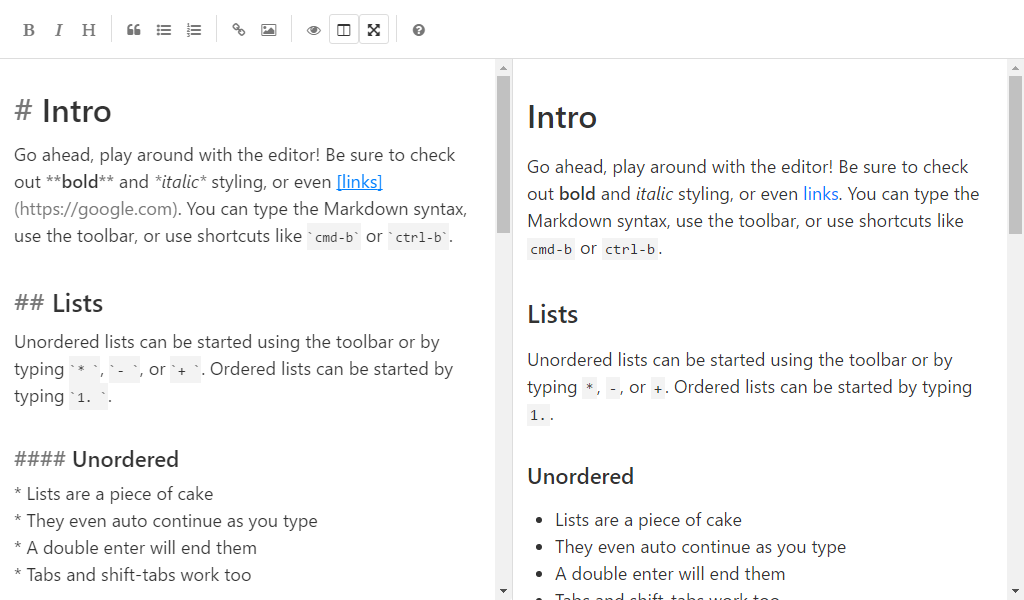
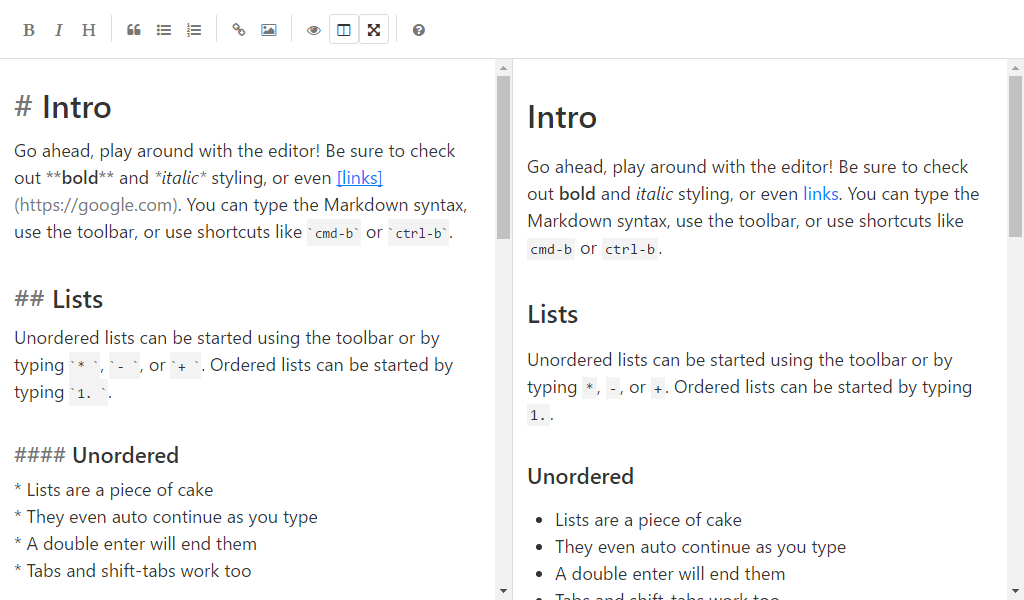
Fix lines padding

diff --git a/dist/simplemde-theme-base.min.css b/dist/simplemde-theme-base.min.css
@@ -1,1 +1,1 @@
-@charset "UTF-8";.CodeMirror-lines{padding:4px 0}.CodeMirror-gutter-filler,.CodeMirror-scrollbar-filler{background-color:#fff}.CodeMirror-gutters{border-right:1px solid #ddd;background-color:#f7f7f7;white-space:nowrap}.CodeMirror-linenumber{padding:0 3px 0 5px;min-width:20px;text-align:right;color:#999;white-space:nowrap}.CodeMirror-guttermarker{color:#000}.CodeMirror-guttermarker-subtle{color:#999}.CodeMirror-cursor{border-left:1px solid #000;border-right:none;width:0}.CodeMirror div.CodeMirror-secondarycursor{border-left:1px solid silver}.cm-fat-cursor .CodeMirror-cursor{width:auto;border:0!important;background:#7e7}.cm-fat-cursor div.CodeMirror-cursors{z-index:1}.cm-animate-fat-cursor{width:auto;border:0;-webkit-animation:blink 1.06s steps(1) infinite;-moz-animation:blink 1.06s steps(1) infinite;animation:blink 1.06s steps(1) infinite;background-color:#7e7}@-moz-keyframes blink{50%{background-color:transparent}}@-webkit-keyframes blink{50%{background-color:transparent}}@keyframes blink{50%{background-color:transparent}}.cm-tab{display:inline-block;text-decoration:inherit}.CodeMirror-rulers{position:absolute;left:0;right:0;top:-50px;bottom:-20px;overflow:hidden}.CodeMirror-ruler{border-left:1px solid #ccc;top:0;bottom:0;position:absolute}.CodeMirror,.CodeMirror-scroll{position:relative;min-height:300px}.cm-s-default .cm-header{color:#00f}.cm-s-default .cm-quote{color:#090}.cm-negative{color:#d44}.cm-positive{color:#292}.cm-header,.cm-strong{font-weight:700}.cm-em{font-style:italic}.cm-link{text-decoration:underline}.CodeMirror .CodeMirror-code .cm-strikethrough,.cm-strikethrough{text-decoration:line-through}.cm-s-default .cm-keyword{color:#708}.cm-s-default .cm-atom{color:#219}.cm-s-default .cm-number{color:#164}.cm-s-default .cm-def{color:#00f}.cm-s-default .cm-variable-2{color:#05a}.cm-s-default .cm-variable-3{color:#085}.cm-s-default .cm-comment{color:#a50}.cm-s-default .cm-string{color:#a11}.cm-s-default .cm-string-2{color:#f50}.cm-s-default .cm-meta,.cm-s-default .cm-qualifier{color:#555}.cm-s-default .cm-builtin{color:#30a}.cm-s-default .cm-bracket{color:#997}.cm-s-default .cm-tag{color:#170}.cm-s-default .cm-attribute{color:#00c}.cm-s-default .cm-hr{color:#999}.cm-s-default .cm-link{color:#00c}.cm-invalidchar,.cm-s-default .cm-error{color:red}.CodeMirror-composing{border-bottom:2px solid}div.CodeMirror span.CodeMirror-matchingbracket{color:#0f0}div.CodeMirror span.CodeMirror-nonmatchingbracket{color:#f22}.CodeMirror-matchingtag{background:rgba(255,150,0,.3)}.CodeMirror-activeline-background{background:#e8f2ff}.CodeMirror{position:relative;overflow:hidden;background:#fff}.CodeMirror-scroll{overflow:scroll!important;height:100%;outline:0;position:relative}.CodeMirror-sizer{position:relative;border-right:30px solid transparent}.CodeMirror-gutter-filler,.CodeMirror-hscrollbar,.CodeMirror-scrollbar-filler,.CodeMirror-vscrollbar{position:absolute;z-index:6;display:none}.CodeMirror-vscrollbar{right:0;top:0;overflow-x:hidden;overflow-y:scroll}.CodeMirror-hscrollbar{bottom:0;left:0;overflow-y:hidden;overflow-x:scroll}.CodeMirror-scrollbar-filler{right:0;bottom:0}.CodeMirror-gutter-filler{left:0;bottom:0}.CodeMirror-gutters{position:absolute;left:0;top:0;min-height:100%;z-index:3}.CodeMirror-gutter{white-space:normal;height:100%;display:inline-block;vertical-align:top;margin-bottom:-30px}.CodeMirror-gutter-wrapper{position:absolute;z-index:4;background:0 0!important;border:none!important;-webkit-user-select:none;-moz-user-select:none;user-select:none}.CodeMirror-gutter-background{position:absolute;top:0;bottom:0;z-index:4}.CodeMirror-gutter-elt{position:absolute;cursor:default;z-index:4}.CodeMirror-lines{cursor:text;min-height:1px}.CodeMirror pre{-moz-border-radius:0;-webkit-border-radius:0;border-radius:0;border-width:0;background:0 0;font-family:inherit;font-size:inherit;margin:0;white-space:pre;word-wrap:normal;line-height:inherit;color:inherit;z-index:2;position:relative;overflow:visible;-webkit-tap-highlight-color:transparent;-webkit-font-variant-ligatures:contextual;font-variant-ligatures:contextual}.CodeMirror-wrap pre{word-wrap:break-word;white-space:pre-wrap;word-break:normal}.CodeMirror-linebackground{position:absolute;left:0;right:0;top:0;bottom:0;z-index:0}.CodeMirror-linewidget{position:relative;z-index:2;overflow:auto}.CodeMirror-code{outline:0}.CodeMirror-gutter,.CodeMirror-gutters,.CodeMirror-linenumber,.CodeMirror-scroll,.CodeMirror-sizer{-moz-box-sizing:content-box;box-sizing:content-box}.CodeMirror-measure{position:absolute;width:100%;height:0;overflow:hidden;visibility:hidden}.CodeMirror-cursor{position:absolute;pointer-events:none}.CodeMirror-measure pre{position:static}div.CodeMirror-cursors{visibility:hidden;position:relative;z-index:3}.CodeMirror-focused div.CodeMirror-cursors,div.CodeMirror-dragcursors{visibility:visible}.CodeMirror-selected{background:#d9d9d9}.CodeMirror-focused .CodeMirror-selected{background:#d7d4f0}.CodeMirror-crosshair{cursor:crosshair}.CodeMirror-line::selection,.CodeMirror-line>span::selection,.CodeMirror-line>span>span::selection{background:#d7d4f0}.CodeMirror-line::-moz-selection,.CodeMirror-line>span::-moz-selection,.CodeMirror-line>span>span::-moz-selection{background:#d7d4f0}.cm-searching{background:#ffa;background:rgba(255,255,0,.4)}.cm-force-border{padding-right:.1px}@media print{.CodeMirror div.CodeMirror-cursors{visibility:hidden}}.cm-tab-wrap-hack:after{content:''}span.CodeMirror-selectedtext{background:0 0}.CodeMirror{height:auto;border:1px solid #ddd;border-bottom-left-radius:3px;border-bottom-right-radius:3px;padding:14px;font-family:inherit;font-size:18px;line-height:1.5;color:#333;z-index:1;background-color:#fff}.CodeMirror-scroll{margin-bottom:-32px;margin-right:-32px;padding-bottom:32px}.CodeMirror-fullscreen{background:#fff;position:fixed!important;top:58px;left:0;right:0;bottom:0;height:auto;z-index:9;border:0;border-top:1px solid #ddd}.CodeMirror-sided{width:50%!important}.CodeMirror .CodeMirror-placeholder{color:#777}.CodeMirror-cursor{border-left-color:#333}.CodeMirror pre{padding:0}.CodeMirror-focused .CodeMirror-selected,.CodeMirror-line::-moz-selection,.CodeMirror-line>span::-moz-selection,.CodeMirror-line>span>span::-moz-selection,.CodeMirror-selected{background-color:rgba(0,0,0,.1)}.CodeMirror-focused .CodeMirror-selected,.CodeMirror-line::selection,.CodeMirror-line>span::selection,.CodeMirror-line>span>span::selection,.CodeMirror-selected{background-color:rgba(0,0,0,.1)}.CodeMirror .CodeMirror-code .cm-attribute,.CodeMirror .CodeMirror-code .cm-tag{color:#40bf40}.CodeMirror .CodeMirror-code .cm-string{color:#777}.CodeMirror .CodeMirror-code .cm-link{color:#0080ff}.CodeMirror .CodeMirror-code .cm-formatting-code,.CodeMirror .CodeMirror-code .cm-formatting-code-block,.CodeMirror .CodeMirror-code .cm-formatting-em,.CodeMirror .CodeMirror-code .cm-formatting-header,.CodeMirror .CodeMirror-code .cm-formatting-strikethrough,.CodeMirror .CodeMirror-code .cm-formatting-strong,.CodeMirror .CodeMirror-code .cm-hr,.CodeMirror .CodeMirror-code .cm-quote,.CodeMirror .CodeMirror-code .cm-url{color:#777}.CodeMirror .CodeMirror-code .cm-header-1,.CodeMirror .CodeMirror-code .cm-header-2,.CodeMirror .CodeMirror-code .cm-header-3,.CodeMirror .CodeMirror-code .cm-header-4,.CodeMirror .CodeMirror-code .cm-header-5,.CodeMirror .CodeMirror-code .cm-header-6{line-height:2}.CodeMirror .CodeMirror-code .cm-header-1{font-size:32px}.CodeMirror .CodeMirror-code .cm-header-2{font-size:26px}.CodeMirror .CodeMirror-code .cm-header-3{font-size:24px}.CodeMirror .CodeMirror-code .cm-header-4{font-size:22px}.CodeMirror .CodeMirror-code .cm-header-5{font-size:20px}.CodeMirror .CodeMirror-code .cm-header-6{font-size:18px}.CodeMirror .CodeMirror-code .cm-header,.CodeMirror .CodeMirror-code .cm-strong{font-weight:600}.CodeMirror .CodeMirror-code .cm-comment{font-family:Menlo,Monaco,Consolas,"Liberation Mono","Courier New",monospace;background:rgba(0,0,0,.05);font-size:14px;padding:6px 0 4px}.CodeMirror .CodeMirror-code span.CodeMirror-selectedtext.cm-comment{background:rgba(0,0,0,.05)}.editor-preview{position:absolute;width:100%;height:100%;top:0;left:0;z-index:2}.editor-preview-side{position:fixed;bottom:0;width:50%;top:58px;right:0;z-index:9;border:0;border-top:1px solid #ddd;border-left:1px solid #ddd}.editor-preview,.editor-preview-side{padding:0 14px 14px;color:#333;font-family:inherit;font-size:18px;line-height:1.5;background:#fff;overflow:auto;display:none;box-sizing:border-box}.editor-preview pre,.editor-preview-side pre{overflow:auto;-webkit-overflow-scrolling:touch;background-color:rgba(0,0,0,.05);font-family:Menlo,Monaco,Consolas,"Liberation Mono","Courier New",monospace;font-size:14px;line-height:1.2;padding:14px;margin-top:14px}.editor-preview pre code,.editor-preview-side pre code{background-color:transparent;font-size:14px;padding:0}.editor-preview-active,.editor-preview-active-side{display:block}.editor-preview table,.editor-preview-side table{background-color:#fff;border:0;border-collapse:collapse;border-spacing:0;width:100%}.editor-preview table caption,.editor-preview-side table caption{caption-side:bottom;color:#777;padding:7px;text-align:left}.editor-preview table td,.editor-preview table th,.editor-preview-side table td,.editor-preview-side table th{border:0;border-bottom:1px solid #ddd;padding:7px;text-align:left}.editor-preview table th,.editor-preview-side table th{background-color:rgba(0,0,0,.05);font-weight:600}.editor-preview audio:not([controls]),.editor-preview-side audio:not([controls]){display:none;height:0}.editor-preview img,.editor-preview-side img{max-width:100%;vertical-align:middle}.editor-preview audio,.editor-preview video,.editor-preview-side audio,.editor-preview-side video{width:100%}.editor-toolbar{position:relative;-webkit-user-select:none;-moz-user-select:none;-ms-user-select:none;user-select:none;padding:0 14px;border:1px solid #ddd;border-bottom:0;border-top-left-radius:3px;border-top-right-radius:3px;font-size:18px;background-color:#fff}.editor-toolbar:after,.editor-toolbar:before{display:block;content:' ';height:1px}.editor-toolbar:before{margin-bottom:7px}.editor-toolbar:after{margin-top:7px}.editor-toolbar a{display:inline-block;text-align:center;text-decoration:none!important;color:#777!important;width:30px;height:30px;margin:0;border:1px solid transparent;border-radius:3px;cursor:pointer;font-size:80%}.editor-toolbar a.active,.editor-toolbar a:hover{color:#333!important;border-color:#ddd}.editor-toolbar a:before{line-height:30px}.editor-toolbar a.fa-header-x:after{font-family:inherit;font-size:80%;line-height:0;position:relative;vertical-align:baseline;bottom:-.25em}.editor-toolbar a.fa-header-1:after{content:"1"}.editor-toolbar a.fa-header-2:after{content:"2"}.editor-toolbar a.fa-header-3:after{content:"3"}.editor-toolbar a.fa-header-bigger:after{content:"▲"}.editor-toolbar a.fa-header-smaller:after{content:"▼"}.editor-toolbar i.separator{display:inline-block;width:0;border-right:1px solid #ddd;color:transparent;text-indent:-10px;margin:0 7px}.editor-toolbar:hover a{color:#333!important}.editor-toolbar.fullscreen{width:100%;height:58px;overflow-x:auto;overflow-y:hidden;white-space:nowrap;padding-top:14px;padding-bottom:14px;box-sizing:border-box;background:#fff;border:0;position:fixed;top:0;left:0;z-index:9}.editor-toolbar.fullscreen::after,.editor-toolbar.fullscreen::before{width:20px;height:58px;position:fixed;top:0;left:0;margin:0;padding:0}@media only screen and (max-width:700px){.editor-toolbar a.no-mobile{display:none}}.editor-toolbar.disabled-for-preview a:not(.no-disable){pointer-events:none;background:#fff;border-color:transparent;text-shadow:inherit}.editor-statusbar{padding:7px 14px;font-family:inherit;font-size:80%;color:#777;text-align:right}.editor-statusbar span{display:inline-block;margin-left:1em}.editor-statusbar .lines:before{content:'lines: '}.editor-statusbar .words:before{content:'words: '}.editor-statusbar .characters:before{content:'characters: '}
+@charset "UTF-8";.CodeMirror-gutter-filler,.CodeMirror-scrollbar-filler{background-color:#fff}.CodeMirror-gutters{border-right:1px solid #ddd;background-color:#f7f7f7;white-space:nowrap}.CodeMirror-linenumber{padding:0 3px 0 5px;min-width:20px;text-align:right;color:#999;white-space:nowrap}.CodeMirror-guttermarker{color:#000}.CodeMirror-guttermarker-subtle{color:#999}.CodeMirror-cursor{border-left:1px solid #000;border-right:none;width:0}.CodeMirror div.CodeMirror-secondarycursor{border-left:1px solid silver}.cm-fat-cursor .CodeMirror-cursor{width:auto;border:0!important;background:#7e7}.cm-fat-cursor div.CodeMirror-cursors{z-index:1}.cm-animate-fat-cursor{width:auto;border:0;-webkit-animation:blink 1.06s steps(1) infinite;-moz-animation:blink 1.06s steps(1) infinite;animation:blink 1.06s steps(1) infinite;background-color:#7e7}@-moz-keyframes blink{50%{background-color:transparent}}@-webkit-keyframes blink{50%{background-color:transparent}}@keyframes blink{50%{background-color:transparent}}.cm-tab{display:inline-block;text-decoration:inherit}.CodeMirror-rulers{position:absolute;left:0;right:0;top:-50px;bottom:-20px;overflow:hidden}.CodeMirror-ruler{border-left:1px solid #ccc;top:0;bottom:0;position:absolute}.CodeMirror,.CodeMirror-scroll{position:relative;min-height:300px}.cm-s-default .cm-header{color:#00f}.cm-s-default .cm-quote{color:#090}.cm-negative{color:#d44}.cm-positive{color:#292}.cm-header,.cm-strong{font-weight:700}.cm-em{font-style:italic}.cm-link{text-decoration:underline}.CodeMirror .CodeMirror-code .cm-strikethrough,.cm-strikethrough{text-decoration:line-through}.cm-s-default .cm-keyword{color:#708}.cm-s-default .cm-atom{color:#219}.cm-s-default .cm-number{color:#164}.cm-s-default .cm-def{color:#00f}.cm-s-default .cm-variable-2{color:#05a}.cm-s-default .cm-variable-3{color:#085}.cm-s-default .cm-comment{color:#a50}.cm-s-default .cm-string{color:#a11}.cm-s-default .cm-string-2{color:#f50}.cm-s-default .cm-meta,.cm-s-default .cm-qualifier{color:#555}.cm-s-default .cm-builtin{color:#30a}.cm-s-default .cm-bracket{color:#997}.cm-s-default .cm-tag{color:#170}.cm-s-default .cm-attribute{color:#00c}.cm-s-default .cm-hr{color:#999}.cm-s-default .cm-link{color:#00c}.cm-invalidchar,.cm-s-default .cm-error{color:red}.CodeMirror-composing{border-bottom:2px solid}div.CodeMirror span.CodeMirror-matchingbracket{color:#0f0}div.CodeMirror span.CodeMirror-nonmatchingbracket{color:#f22}.CodeMirror-matchingtag{background:rgba(255,150,0,.3)}.CodeMirror-activeline-background{background:#e8f2ff}.CodeMirror{position:relative;overflow:hidden;background:#fff}.CodeMirror-scroll{overflow:scroll!important;height:100%;outline:0;position:relative}.CodeMirror-sizer{position:relative;border-right:30px solid transparent}.CodeMirror-gutter-filler,.CodeMirror-hscrollbar,.CodeMirror-scrollbar-filler,.CodeMirror-vscrollbar{position:absolute;z-index:6;display:none}.CodeMirror-vscrollbar{right:0;top:0;overflow-x:hidden;overflow-y:scroll}.CodeMirror-hscrollbar{bottom:0;left:0;overflow-y:hidden;overflow-x:scroll}.CodeMirror-scrollbar-filler{right:0;bottom:0}.CodeMirror-gutter-filler{left:0;bottom:0}.CodeMirror-gutters{position:absolute;left:0;top:0;min-height:100%;z-index:3}.CodeMirror-gutter{white-space:normal;height:100%;display:inline-block;vertical-align:top;margin-bottom:-30px}.CodeMirror-gutter-wrapper{position:absolute;z-index:4;background:0 0!important;border:none!important;-webkit-user-select:none;-moz-user-select:none;user-select:none}.CodeMirror-gutter-background{position:absolute;top:0;bottom:0;z-index:4}.CodeMirror-gutter-elt{position:absolute;cursor:default;z-index:4}.CodeMirror-lines{cursor:text;min-height:1px}.CodeMirror pre{-moz-border-radius:0;-webkit-border-radius:0;border-radius:0;border-width:0;background:0 0;font-family:inherit;font-size:inherit;margin:0;white-space:pre;word-wrap:normal;line-height:inherit;color:inherit;z-index:2;position:relative;overflow:visible;-webkit-tap-highlight-color:transparent;-webkit-font-variant-ligatures:contextual;font-variant-ligatures:contextual}.CodeMirror-wrap pre{word-wrap:break-word;white-space:pre-wrap;word-break:normal}.CodeMirror-linebackground{position:absolute;left:0;right:0;top:0;bottom:0;z-index:0}.CodeMirror-linewidget{position:relative;z-index:2;overflow:auto}.CodeMirror-code{outline:0}.CodeMirror-gutter,.CodeMirror-gutters,.CodeMirror-linenumber,.CodeMirror-scroll,.CodeMirror-sizer{-moz-box-sizing:content-box;box-sizing:content-box}.CodeMirror-measure{position:absolute;width:100%;height:0;overflow:hidden;visibility:hidden}.CodeMirror-cursor{position:absolute;pointer-events:none}.CodeMirror-measure pre{position:static}div.CodeMirror-cursors{visibility:hidden;position:relative;z-index:3}.CodeMirror-focused div.CodeMirror-cursors,div.CodeMirror-dragcursors{visibility:visible}.CodeMirror-selected{background:#d9d9d9}.CodeMirror-focused .CodeMirror-selected{background:#d7d4f0}.CodeMirror-crosshair{cursor:crosshair}.CodeMirror-line::selection,.CodeMirror-line>span::selection,.CodeMirror-line>span>span::selection{background:#d7d4f0}.CodeMirror-line::-moz-selection,.CodeMirror-line>span::-moz-selection,.CodeMirror-line>span>span::-moz-selection{background:#d7d4f0}.cm-searching{background:#ffa;background:rgba(255,255,0,.4)}.cm-force-border{padding-right:.1px}@media print{.CodeMirror div.CodeMirror-cursors{visibility:hidden}}.cm-tab-wrap-hack:after{content:''}span.CodeMirror-selectedtext{background:0 0}.CodeMirror{height:auto;border:1px solid #ddd;border-bottom-left-radius:3px;border-bottom-right-radius:3px;padding:14px;font-family:inherit;font-size:18px;line-height:1.5;color:#333;z-index:1;background-color:#fff}.CodeMirror-scroll{margin-bottom:-32px;margin-right:-32px;padding-bottom:32px}.CodeMirror-fullscreen{background:#fff;position:fixed!important;top:58px;left:0;right:0;bottom:0;height:auto;z-index:9;border:0;border-top:1px solid #ddd}.CodeMirror-sided{width:50%!important}.CodeMirror .CodeMirror-placeholder{color:#777}.CodeMirror-cursor{border-left-color:#333}.CodeMirror pre,.CodeMirror-lines{padding:0}.CodeMirror-focused .CodeMirror-selected,.CodeMirror-line::-moz-selection,.CodeMirror-line>span::-moz-selection,.CodeMirror-line>span>span::-moz-selection,.CodeMirror-selected{background-color:rgba(0,0,0,.1)}.CodeMirror-focused .CodeMirror-selected,.CodeMirror-line::selection,.CodeMirror-line>span::selection,.CodeMirror-line>span>span::selection,.CodeMirror-selected{background-color:rgba(0,0,0,.1)}.CodeMirror .CodeMirror-code .cm-attribute,.CodeMirror .CodeMirror-code .cm-tag{color:#40bf40}.CodeMirror .CodeMirror-code .cm-string{color:#777}.CodeMirror .CodeMirror-code .cm-link{color:#0080ff}.CodeMirror .CodeMirror-code .cm-formatting-code,.CodeMirror .CodeMirror-code .cm-formatting-code-block,.CodeMirror .CodeMirror-code .cm-formatting-em,.CodeMirror .CodeMirror-code .cm-formatting-header,.CodeMirror .CodeMirror-code .cm-formatting-strikethrough,.CodeMirror .CodeMirror-code .cm-formatting-strong,.CodeMirror .CodeMirror-code .cm-hr,.CodeMirror .CodeMirror-code .cm-quote,.CodeMirror .CodeMirror-code .cm-url{color:#777}.CodeMirror .CodeMirror-code .cm-header-1,.CodeMirror .CodeMirror-code .cm-header-2,.CodeMirror .CodeMirror-code .cm-header-3,.CodeMirror .CodeMirror-code .cm-header-4,.CodeMirror .CodeMirror-code .cm-header-5,.CodeMirror .CodeMirror-code .cm-header-6{line-height:2}.CodeMirror .CodeMirror-code .cm-header-1{font-size:32px}.CodeMirror .CodeMirror-code .cm-header-2{font-size:26px}.CodeMirror .CodeMirror-code .cm-header-3{font-size:24px}.CodeMirror .CodeMirror-code .cm-header-4{font-size:22px}.CodeMirror .CodeMirror-code .cm-header-5{font-size:20px}.CodeMirror .CodeMirror-code .cm-header-6{font-size:18px}.CodeMirror .CodeMirror-code .cm-header,.CodeMirror .CodeMirror-code .cm-strong{font-weight:600}.CodeMirror .CodeMirror-code .cm-comment{font-family:Menlo,Monaco,Consolas,"Liberation Mono","Courier New",monospace;background:rgba(0,0,0,.05);font-size:14px;padding:6px 0 4px}.CodeMirror .CodeMirror-code span.CodeMirror-selectedtext.cm-comment{background:rgba(0,0,0,.05)}.editor-preview{position:absolute;width:100%;height:100%;top:0;left:0;z-index:2}.editor-preview-side{position:fixed;bottom:0;width:50%;top:58px;right:0;z-index:9;border:0;border-top:1px solid #ddd;border-left:1px solid #ddd}.editor-preview,.editor-preview-side{padding:0 14px 14px;color:#333;font-family:inherit;font-size:18px;line-height:1.5;background:#fff;overflow:auto;display:none;box-sizing:border-box}.editor-preview pre,.editor-preview-side pre{overflow:auto;-webkit-overflow-scrolling:touch;background-color:rgba(0,0,0,.05);font-family:Menlo,Monaco,Consolas,"Liberation Mono","Courier New",monospace;font-size:14px;line-height:1.2;padding:14px;margin-top:14px}.editor-preview pre code,.editor-preview-side pre code{background-color:transparent;font-size:14px;padding:0}.editor-preview-active,.editor-preview-active-side{display:block}.editor-preview table,.editor-preview-side table{background-color:#fff;border:0;border-collapse:collapse;border-spacing:0;width:100%}.editor-preview table caption,.editor-preview-side table caption{caption-side:bottom;color:#777;padding:7px;text-align:left}.editor-preview table td,.editor-preview table th,.editor-preview-side table td,.editor-preview-side table th{border:0;border-bottom:1px solid #ddd;padding:7px;text-align:left}.editor-preview table th,.editor-preview-side table th{background-color:rgba(0,0,0,.05);font-weight:600}.editor-preview audio:not([controls]),.editor-preview-side audio:not([controls]){display:none;height:0}.editor-preview img,.editor-preview-side img{max-width:100%;vertical-align:middle}.editor-preview audio,.editor-preview video,.editor-preview-side audio,.editor-preview-side video{width:100%}.editor-toolbar{position:relative;-webkit-user-select:none;-moz-user-select:none;-ms-user-select:none;user-select:none;padding:0 14px;border:1px solid #ddd;border-bottom:0;border-top-left-radius:3px;border-top-right-radius:3px;font-size:18px;background-color:#fff}.editor-toolbar:after,.editor-toolbar:before{display:block;content:' ';height:1px}.editor-toolbar:before{margin-bottom:7px}.editor-toolbar:after{margin-top:7px}.editor-toolbar a{display:inline-block;text-align:center;text-decoration:none!important;color:#777!important;width:30px;height:30px;margin:0;border:1px solid transparent;border-radius:3px;cursor:pointer;font-size:80%}.editor-toolbar a.active,.editor-toolbar a:hover{color:#333!important;border-color:#ddd}.editor-toolbar a:before{line-height:30px}.editor-toolbar a.fa-header-x:after{font-family:inherit;font-size:80%;line-height:0;position:relative;vertical-align:baseline;bottom:-.25em}.editor-toolbar a.fa-header-1:after{content:"1"}.editor-toolbar a.fa-header-2:after{content:"2"}.editor-toolbar a.fa-header-3:after{content:"3"}.editor-toolbar a.fa-header-bigger:after{content:"▲"}.editor-toolbar a.fa-header-smaller:after{content:"▼"}.editor-toolbar i.separator{display:inline-block;width:0;border-right:1px solid #ddd;color:transparent;text-indent:-10px;margin:0 7px}.editor-toolbar:hover a{color:#333!important}.editor-toolbar.fullscreen{width:100%;height:58px;overflow-x:auto;overflow-y:hidden;white-space:nowrap;padding-top:14px;padding-bottom:14px;box-sizing:border-box;background:#fff;border:0;position:fixed;top:0;left:0;z-index:9}.editor-toolbar.fullscreen::after,.editor-toolbar.fullscreen::before{width:20px;height:58px;position:fixed;top:0;left:0;margin:0;padding:0}@media only screen and (max-width:700px){.editor-toolbar a.no-mobile{display:none}}.editor-toolbar.disabled-for-preview a:not(.no-disable){pointer-events:none;background:#fff;border-color:transparent;text-shadow:inherit}.editor-statusbar{padding:7px 14px;font-family:inherit;font-size:80%;color:#777;text-align:right}.editor-statusbar span{display:inline-block;margin-left:1em}.editor-statusbar .lines:before{content:'lines: '}.editor-statusbar .words:before{content:'words: '}.editor-statusbar .characters:before{content:'characters: '}

diff --git a/src/_codemirror-override.scss b/src/_codemirror-override.scss
@@ -47,6 +47,10 @@
   border-left-color: $color-text;
 }
 
+.CodeMirror-lines {
+  padding: 0;
+}
+
 // Override the default every-line-paddings in codemirror.css
 .CodeMirror pre {
   padding: 0 $smde-padding-line;

diff --git a/dist/simplemde-theme-base.css b/dist/simplemde-theme-base.css
@@ -381,6 +381,9 @@ span.CodeMirror-selectedtext { background: none; }
 .CodeMirror-cursor {
   border-left-color: #333; }
 
+.CodeMirror-lines {
+  padding: 0; }
+
 .CodeMirror pre {
   padding: 0 0; }
 
